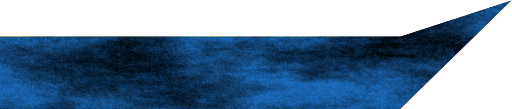
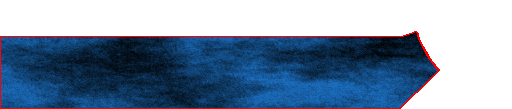
Menus en cours de création

diff --git a/fr/cop/menu/PanelTest.java b/fr/cop/menu/PanelTest.java
@@ -1,4 +1,4 @@
-package fr.cop.game.core;
+package fr.cop.menu;
 
 import java.awt.Polygon;
 import java.awt.event.ActionEvent;
@@ -10,6 +10,8 @@ import javax.swing.ImageIcon;
 import javax.swing.JFrame;
 import javax.swing.JPanel;
 
+import fr.cop.game.core.Conflict_Of_Pixels_Client;
+
 public class PanelTest extends JPanel {
 
 	public PanelTest() {
@@ -18,7 +20,7 @@ public class PanelTest extends JPanel {
 		int[][] y = {{180, 180, 360, 252, 252}, {252, 252, 360, 324, 324}, {324, 324, 360, 397, 397}, {397, 397, 360, 469, 469}, {469, 469, 360, 541, 541}};
 		setLayout(null);
 		
-		PlayButton pb = new PlayButton(512, 360, 100);
+		PlayButton pb = new PlayButton(512, 360, 100, new ImageIcon(getClass().getResource("/fr/cop/resources/menus/menu_round.png")));
 		pb.setBounds(0, 0, getWidth(), getHeight());
 
 		
@@ -38,7 +40,7 @@ public class PanelTest extends JPanel {
 		MenusButton v4 = new MenusButton(new Polygon(x, y[4], x.length), "Options", new ImageIcon(getClass().getResource("/fr/cop/resources/menus/menu_bas_2.png")), pb);
 		v4.setBounds(0, 0, getWidth(), getHeight());
 
-		v4.addActionListener(new ActionListener() {
+		pb.addActionListener(new ActionListener() {
 
 			@Override
 			public void actionPerformed(ActionEvent e) {
@@ -70,6 +72,9 @@ public class PanelTest extends JPanel {
 		p2.setBounds(0, 0, getWidth(), getHeight());
 		p2.setLayout(null);
 		
+		ProfilBarPanel profilBar = new ProfilBarPanel();
+		profilBar.setBounds(0, 0, getWidth(), getHeight());
+		
 		p.add(v0);
 		p.add(v1);
 		p.add(v2);
@@ -78,7 +83,6 @@ public class PanelTest extends JPanel {
 		p2.add(pb);
 		add(p);
 		add(p2);
-		
-		setComponentZOrder(pb, 0);
+		add(profilBar);
 	}
 }

diff --git a/fr/cop/menu/PlayButton.java b/fr/cop/menu/PlayButton.java
@@ -1,4 +1,4 @@
-package fr.cop.game.core;
+package fr.cop.menu;
 
 import java.awt.Color;
 import java.awt.Font;
@@ -9,6 +9,7 @@ import java.awt.event.ActionEvent;
 import java.awt.event.ActionListener;
 import java.io.InputStream;
 
+import javax.swing.ImageIcon;
 import javax.swing.JButton;
 
 public class PlayButton extends JButton {
@@ -16,9 +17,16 @@ public class PlayButton extends JButton {
 	Polygon p1 = new Polygon();
 	Polygon p2 = new Polygon();
 	
+	int centerX, centerY, radius;
+	
 	Font f;
+	ImageIcon ico;
 
-	public PlayButton(int centerX, int centerY, int radius) {
+	public PlayButton(int centerX, int centerY, int radius, ImageIcon ico) {
+		this.ico = ico;
+		this.centerX = centerX;
+		this.centerY = centerY;
+		this.radius = radius;
 		for (int i = -radius; i <= radius; i++) {
 
 			p1.addPoint(i + centerX, (int) Math.sqrt(radius * radius - i * i) + centerY);
@@ -36,14 +44,7 @@ public class PlayButton extends JButton {
 		setBorderPainted(false);
 		setFocusPainted(false);
 		setOpaque(true);
-		addActionListener(new ActionListener() {
-
-			@Override
-			public void actionPerformed(ActionEvent e) {
-				System.out.println("play");
-
-			}
-		});
+	
 	}
 	@Override
 	public boolean contains(int x, int y) {
@@ -51,14 +52,11 @@ public class PlayButton extends JButton {
 	}
 	@Override
 	public void paint(Graphics g) {
-		g.setColor(Color.GREEN);
-		g.fillPolygon(p1);
-		g.setColor(Color.BLUE);
-		g.fillPolygon(p2);
+		g.drawImage(ico.getImage(), centerX-radius, centerY-radius, null);
 		
 		g.setColor(Color.RED);
 		g.setFont(f);
-		g.drawString("Play", 480, 360);
+		g.drawString("Play", 450, 380);
 		g.dispose();
 	}
 }

diff --git a/fr/cop/menu/ProfilBarPanel.java b/fr/cop/menu/ProfilBarPanel.java
@@ -1,0 +1,39 @@
+package fr.cop.menu;
+
+import java.awt.Color;
+import java.awt.Font;
+import java.awt.Graphics;
+import java.io.InputStream;
+
+import javax.swing.ImageIcon;
+import javax.swing.JPanel;
+
+public class ProfilBarPanel extends JPanel{
+	ImageIcon profilIco, backgroundIco;
+	Font f;
+
+	public ProfilBarPanel() {
+		setLayout(null);
+		profilIco = new ImageIcon(getClass().getResource("/fr/cop/resources/icons/icon.png"));
+		backgroundIco = new ImageIcon(getClass().getResource("/fr/cop/resources/menus/profile_bar_background.png"));
+		try {
+			InputStream is = getClass().getResourceAsStream("/fr/cop/resources/menus/fonts/zekton_rg.ttf");
+			Font font = Font.createFont(Font.TRUETYPE_FONT, is);
+			f = font.deriveFont(50f);
+		} catch (Exception e) {
+			e.printStackTrace();
+		}
+	}
+
+	
+	@Override
+	public void paint(Graphics g) {
+		g.drawImage(backgroundIco.getImage(), 0, 0,null);
+
+		g.drawImage(profilIco.getImage(), 5, 5, 80, 80,null);
+		g.setFont(f);
+		g.setColor(Color.YELLOW);
+		g.drawString("Gagoi", 100, 60);
+		g.dispose();
+	}
+}

diff --git a/fr/cop/game/core/Conflict_Of_Pixels_Client.java b/fr/cop/game/core/Conflict_Of_Pixels_Client.java
@@ -23,6 +23,7 @@ import fr.cop.game.core.inputs.Keyboard;
 import fr.cop.game.core.inputs.Mouse;
 import fr.cop.game.graphics.Animation;
 import fr.cop.game.graphics.Screen;
+import fr.cop.menu.PanelTest;
 
 public class Conflict_Of_Pixels_Client extends Canvas implements Runnable {
 	private static final long serialVersionUID = 1L; // Convention java.
@@ -39,7 +40,7 @@ public class Conflict_Of_Pixels_Client extends Canvas implements Runnable {
 	private static int width = 350; // Taille de la fenetre (largeur).
 	private static int height = width / 16 * 9; // Taille de la denetre
 												// (hauteur).
-	static Dimension size = new Dimension(width * scale, height * scale); // Taille de la fenetre.
+	public static Dimension size = new Dimension(width * scale, height * scale); // Taille de la fenetre.
 	
 	public static boolean scorePWAL1;
 

diff --git a/fr/cop/menu/MenusButton.java b/fr/cop/menu/MenusButton.java
@@ -1,4 +1,4 @@
-package fr.cop.game.core;
+package fr.cop.menu;
 
 import java.awt.Color;
 import java.awt.Font;
@@ -56,7 +56,6 @@ public class MenusButton extends JButton {
 		if (pos - middle < 0) g.drawImage(ico.getImage(), getX(), pos, null);
 		else g.drawImage(ico.getImage(), getX(), middle, null);
 		g.setColor(Color.RED);
-		g.drawPolygon(p);
 		g.setFont(f);
 		g.drawString(this.text, (p.xpoints[0] + 100), (p.ypoints[0] + 58));
 		g.dispose();
